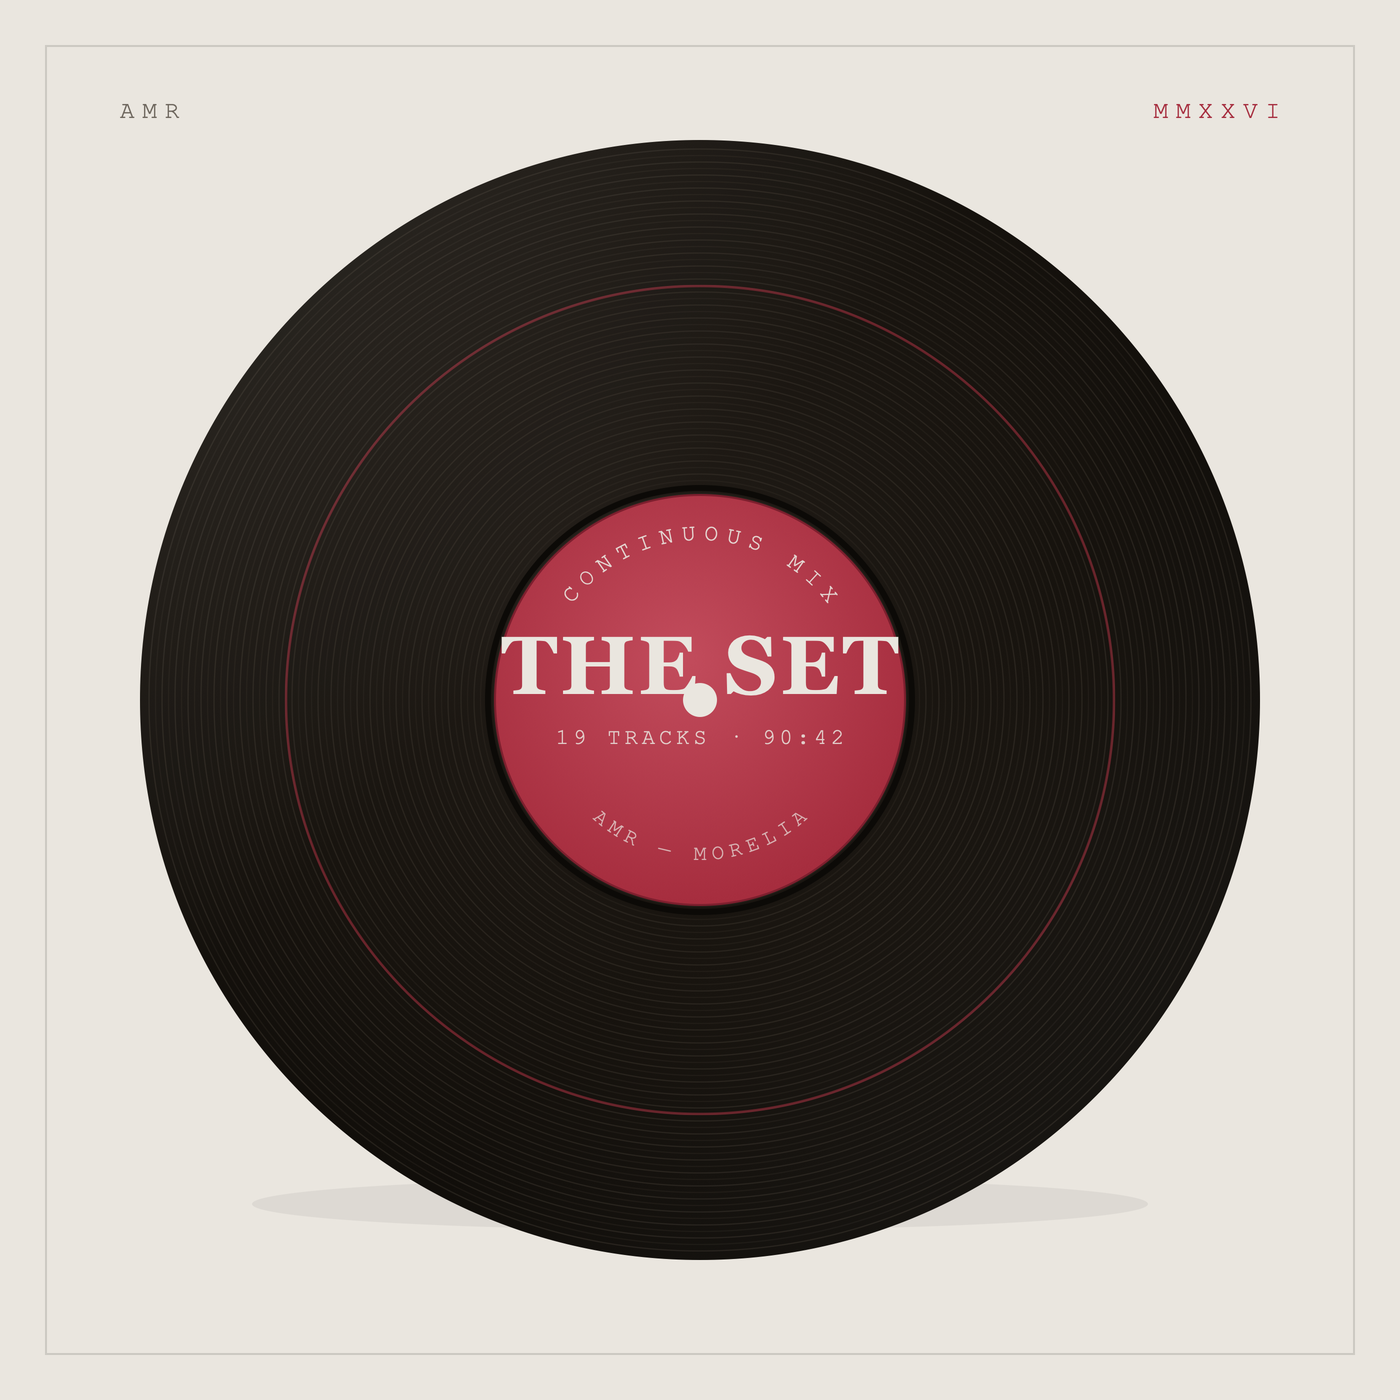
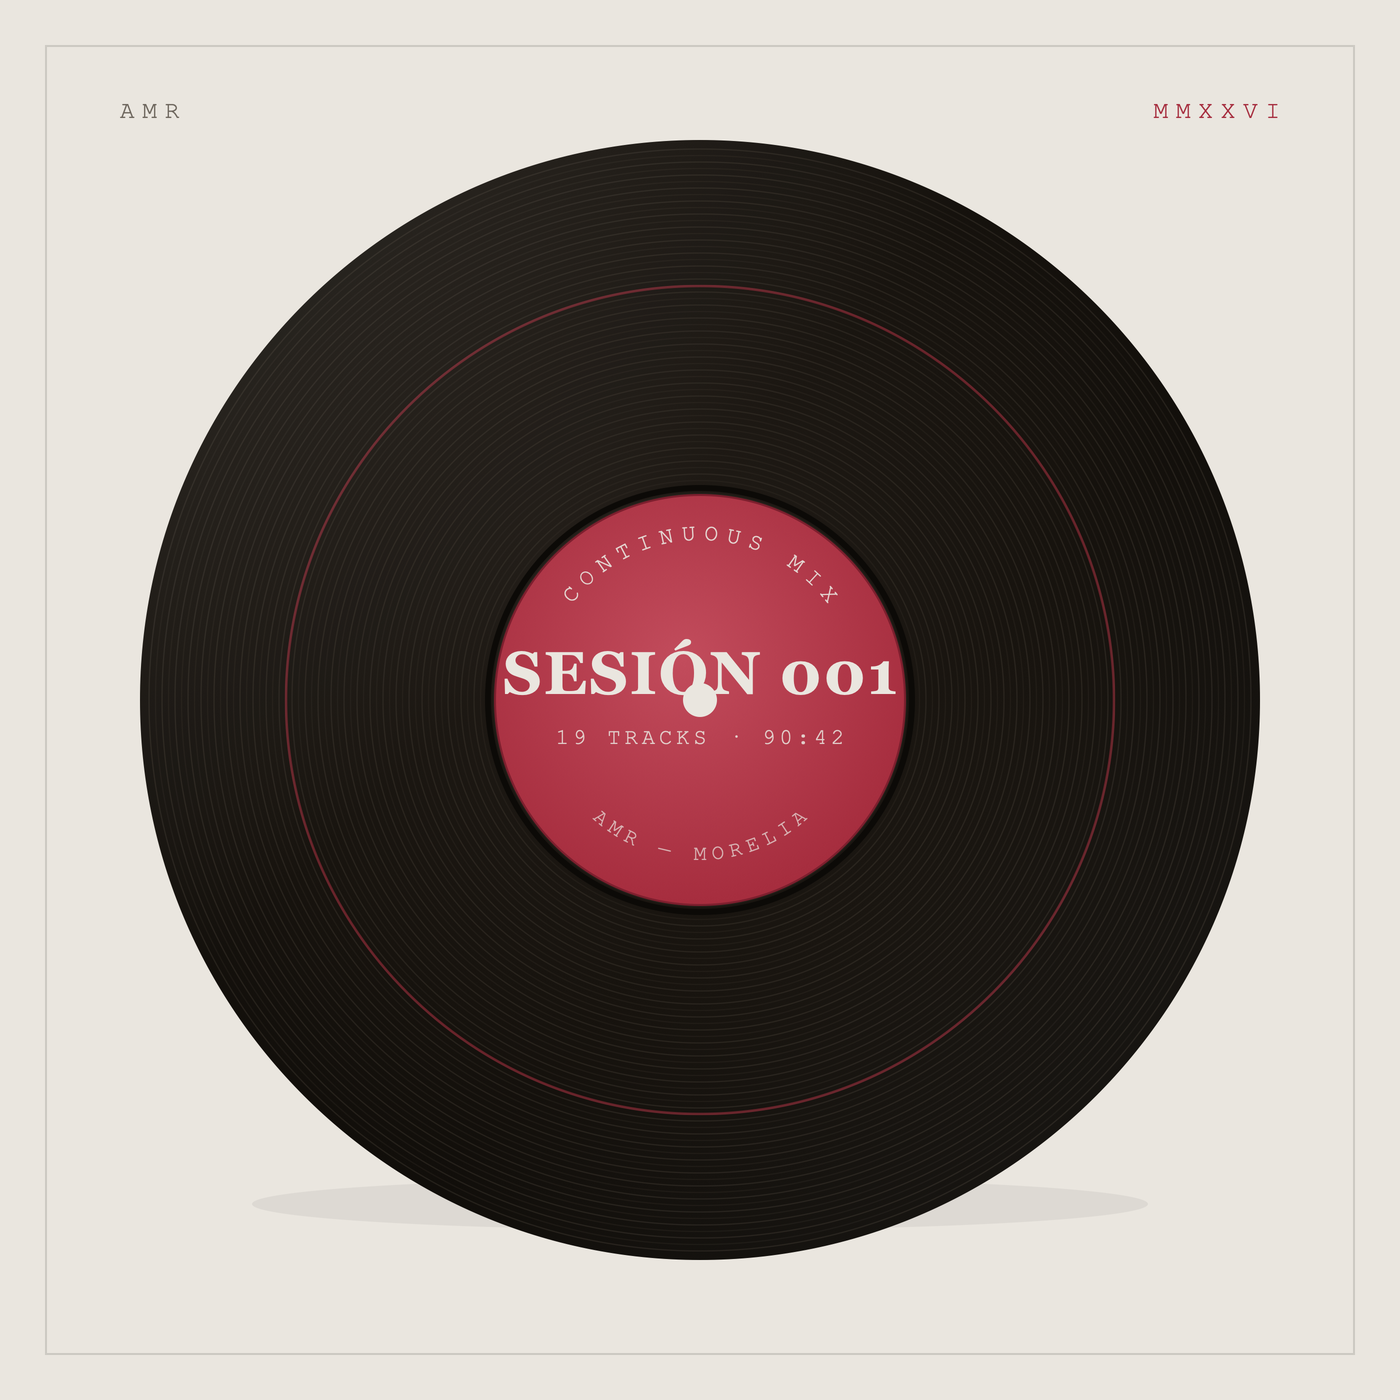
AMR — renombra el disco del set a SESIÓN 001 y sus pistas a A1–A19; MONUMENTS intacto

Changed region(s): [[0.3379, 0.43, 0.645, 0.5221]]

diff --git a/set.js b/set.js
@@ -1,1 +1,1 @@
-window.AMR_SET={"id": "amr-set-the-set", "title": "THE SET", "tracks": 19, "dur": 5442, "titles": ["Libali", "ftmo", "Hollywood", "shiny days", "wish you were here remake", "Aura", "Morning", "Sunset", "Octubre", "Rosablanca", "gnz11", "Francisco De Orellana", "trouble", "brady", "summit", "Nuevo", "Fast", "Pomona", "Nov24"], "file": "audio/amr-set-the-set.m4a", "art": "art/amr-set-the-set.png", "edition": 25, "peaks": [0.824, 0.809, 0.873, 0.848, 0.882, 0.914, 0.905, 0.874, 0.939, 0.928, 0.911, 0.961, 0.942, 0.928, 0.968, 0.884, 0.953, 0.932, 0.947, 0.982, 0.966, 0.945, 0.988, 0.996, 0.998, 0.995, 0.969, 0.97, 0.971, 0.963, 0.963, 0.995, 0.962, 0.924, 0.992, 0.958, 0.979, 0.942, 0.993, 0.906, 0.988, 0.96, 0.929, 0.95, 0.998, 0.997, 0.997, 0.984, 0.946, 0.82, 0.718, 0.705, 0.747, 0.754, 0.706, 0.746, 0.865, 0.898, 0.914, 0.93, 0.931, 0.957, 0.964, 0.958, 0.935, 0.969, 0.98, 0.963, 0.967, 0.968, 0.979, 0.969, 0.969, 0.964, 0.972, 0.97, 0.984, 0.965, 0.895, 0.847, 0.991, 0.987, 0.962, 0.957, 0.962, 0.972, 0.981, 0.96, 0.973, 0.96, 0.966, 0.669, 0.944, 0.99, 0.968, 0.965, 0.962, 0.97, 0.974, 0.98, 0.959, 0.738, 0.695, 0.686, 0.716, 0.853, 0.802, 0.87, 0.771, 0.868, 0.886, 0.786, 0.991, 0.984, 0.987, 0.996, 0.82, 0.997, 0.991, 0.991, 0.982, 0.982, 0.994, 0.994, 0.991, 0.993, 0.988, 0.995, 0.997, 0.981, 0.931, 0.916, 0.704, 0.637, 0.392, 0.117, 0.994, 0.994, 0.998, 0.996, 0.996, 0.998, 0.995, 0.995, 0.996, 1.0, 0.992, 0.99, 0.997, 0.997, 0.995, 0.993, 0.994, 0.997, 0.998, 0.997, 0.989, 0.996, 1.0, 0.997, 0.998, 0.995, 0.941, 0.88, 0.9, 0.834, 0.983, 0.997, 0.999, 1.0, 1.0, 0.996, 0.984, 0.998, 0.981, 0.975, 0.981, 0.989, 0.974, 0.998, 0.983, 0.998, 0.992, 0.992, 0.983, 0.972, 0.978, 0.973, 0.993, 0.973, 0.974, 0.996, 0.987, 0.994, 0.96, 0.995, 0.957, 0.986, 0.991, 0.996, 0.984, 0.9, 0.833, 0.835, 0.911, 0.897, 0.923, 0.955, 0.944, 0.96, 0.925, 0.957, 0.975, 0.93, 0.977, 0.945, 0.984, 0.957, 0.923, 0.952, 0.927, 0.973, 0.906, 0.939, 0.872, 0.93, 0.969, 0.931, 0.922, 0.927, 0.916, 0.911, 0.898, 0.921, 0.949, 0.916, 0.857, 0.946, 0.879, 0.953, 0.969, 0.908, 0.958, 0.943, 0.965, 0.955, 0.967, 0.965, 0.952, 0.985, 0.982, 0.978, 0.699, 0.664, 0.98, 0.986, 0.949, 0.945, 0.953, 0.943, 0.963, 0.94, 0.958, 0.915, 0.9, 0.711, 0.923, 0.949, 0.947, 0.976, 0.974, 0.903, 0.953, 0.911, 0.944, 0.965, 0.868, 0.913, 0.935, 0.957, 0.979, 0.802, 0.717, 0.758, 0.672, 0.756, 0.756, 0.687, 0.991, 0.998, 0.971, 0.973, 0.953, 0.983, 0.94, 0.938, 0.963, 0.941, 0.987, 0.968, 0.955, 0.932, 0.973, 0.931, 0.951, 0.982, 0.958, 0.979, 0.969, 0.994, 0.991, 0.946, 0.959, 0.971, 0.954, 0.981, 0.968, 0.969, 0.994, 0.94, 0.989, 0.955, 0.96, 0.994, 0.99, 0.976, 0.965, 0.971, 0.951, 0.983, 0.989, 0.983, 0.974, 0.96, 0.944, 0.961, 0.931, 0.884, 0.753, 0.996, 0.985, 0.991, 0.996, 0.995, 0.997, 0.988, 0.997, 0.986, 0.959, 0.975, 0.988, 0.998, 0.988, 0.992, 0.982, 0.987, 0.968, 0.993, 0.987, 0.994, 0.992, 0.997, 0.994, 0.98, 0.992, 0.987, 0.994, 0.956, 0.988, 0.991, 0.976, 0.995, 0.976, 0.993, 0.979, 0.985, 0.976, 0.993, 0.973, 0.965, 0.931, 0.981, 0.972, 0.973, 0.984, 0.982, 0.988, 0.953, 0.026, 0.992, 0.973, 0.919, 0.987, 0.968, 0.944, 0.963, 0.954, 0.897, 0.92, 0.901, 0.95, 0.928, 0.882, 0.94, 0.94, 0.955, 0.902, 0.963, 0.957, 0.947, 0.969, 0.963, 0.975, 0.939, 0.934, 0.946, 0.983, 0.94, 0.956, 0.96, 0.961, 0.939, 0.942, 0.941, 0.915, 0.877, 0.555, 0.944, 0.912, 0.914, 0.816, 0.76, 0.833, 0.751, 0.721, 0.968, 0.975, 0.984, 0.935, 0.671, 0.628, 0.635, 0.634, 0.625, 0.626, 0.628, 0.612, 0.72, 0.982, 0.99, 0.98, 0.979, 0.987, 0.927, 0.953, 0.989, 0.934, 0.963, 0.976, 0.895, 0.878, 0.92, 0.924, 0.881, 0.914, 0.887, 0.891, 0.962, 0.953, 0.947, 0.913, 0.906, 0.931, 0.893, 0.946, 0.965, 0.636, 0.587, 0.502, 0.996, 0.998, 0.997, 0.999, 0.996, 1.0, 0.999, 0.998, 0.999, 0.998, 0.998, 0.999, 0.999, 0.995, 0.998, 0.99, 0.999, 0.997, 0.995, 0.995, 0.993, 0.989, 0.997, 0.996, 0.992, 0.997, 0.998, 0.999, 0.925, 0.962, 0.854, 0.96, 0.967, 0.993, 0.986, 0.918, 0.985, 0.958, 0.981, 0.953, 0.972, 0.991, 0.977, 0.995, 0.992, 0.948, 0.99, 0.973, 0.999, 0.955, 0.89, 0.986, 1.0, 0.997, 0.993, 0.997, 0.977, 0.884, 0.998, 0.992, 0.997, 0.995, 0.996, 0.994, 0.995, 0.996, 0.997, 0.998, 0.996, 0.996, 0.992, 0.946, 0.983, 0.999, 0.996, 0.994, 0.996, 0.997, 0.993, 0.945, 0.879, 0.996, 0.995, 0.995, 0.943, 0.877, 0.855, 0.815, 0.689, 0.808, 0.891, 0.937, 0.926, 0.972, 0.993, 0.991, 0.994, 0.992, 0.982, 0.98, 0.975, 0.984, 0.968, 0.993, 0.981, 0.902, 0.957, 0.985, 0.98, 0.98, 0.984, 0.973, 0.838, 0.909, 0.873, 0.894, 0.899, 0.979, 0.984, 0.986, 0.989, 0.992, 0.994, 0.989, 0.994, 0.975, 0.723, 0.838, 0.942, 0.984, 0.998, 1.0, 0.998, 0.978, 0.999, 0.999, 0.997, 0.976, 0.901, 0.991, 0.972, 0.985, 0.987, 0.995, 0.997, 0.993, 0.993, 0.967, 0.998, 1.0, 0.991, 0.994, 0.924, 0.891, 0.938, 0.976, 0.974, 0.934, 0.943, 0.941, 0.96, 0.949, 0.937, 0.909, 0.911, 0.946, 0.916, 0.896, 0.918, 0.967, 0.86, 0.965, 0.964, 0.971, 0.914, 0.962, 0.962, 0.923, 0.95, 0.978, 0.934, 0.904, 0.951, 0.933, 0.921, 0.914, 0.948, 0.985, 0.803, 0.0, 0.946, 0.998, 0.956, 0.92, 0.858, 0.971, 0.982, 0.901, 0.959, 0.897, 0.87, 0.858, 0.878, 0.887, 0.917, 0.885, 0.917, 0.878, 0.884, 0.853, 0.916, 0.852, 0.874, 0.875, 0.909, 0.907, 0.948, 0.929, 0.947, 0.922, 0.846, 0.929, 0.904, 0.92, 0.888, 0.898, 0.938, 0.869, 0.937, 0.93, 0.85, 0.866, 0.903, 0.902, 0.92, 0.872, 0.889, 0.95, 0.91, 0.89, 0.91], "kicker": "CONTINUOUS MIX"};
+window.AMR_SET={"id": "amr-set-the-set", "title": "SESIÓN 001", "tracks": 19, "dur": 5442, "titles": ["A1", "A2", "A3", "A4", "A5", "A6", "A7", "A8", "A9", "A10", "A11", "A12", "A13", "A14", "A15", "A16", "A17", "A18", "A19"], "file": "audio/amr-set-the-set.m4a", "art": "art/amr-set-the-set.png", "edition": 25, "peaks": [0.824, 0.809, 0.873, 0.848, 0.882, 0.914, 0.905, 0.874, 0.939, 0.928, 0.911, 0.961, 0.942, 0.928, 0.968, 0.884, 0.953, 0.932, 0.947, 0.982, 0.966, 0.945, 0.988, 0.996, 0.998, 0.995, 0.969, 0.97, 0.971, 0.963, 0.963, 0.995, 0.962, 0.924, 0.992, 0.958, 0.979, 0.942, 0.993, 0.906, 0.988, 0.96, 0.929, 0.95, 0.998, 0.997, 0.997, 0.984, 0.946, 0.82, 0.718, 0.705, 0.747, 0.754, 0.706, 0.746, 0.865, 0.898, 0.914, 0.93, 0.931, 0.957, 0.964, 0.958, 0.935, 0.969, 0.98, 0.963, 0.967, 0.968, 0.979, 0.969, 0.969, 0.964, 0.972, 0.97, 0.984, 0.965, 0.895, 0.847, 0.991, 0.987, 0.962, 0.957, 0.962, 0.972, 0.981, 0.96, 0.973, 0.96, 0.966, 0.669, 0.944, 0.99, 0.968, 0.965, 0.962, 0.97, 0.974, 0.98, 0.959, 0.738, 0.695, 0.686, 0.716, 0.853, 0.802, 0.87, 0.771, 0.868, 0.886, 0.786, 0.991, 0.984, 0.987, 0.996, 0.82, 0.997, 0.991, 0.991, 0.982, 0.982, 0.994, 0.994, 0.991, 0.993, 0.988, 0.995, 0.997, 0.981, 0.931, 0.916, 0.704, 0.637, 0.392, 0.117, 0.994, 0.994, 0.998, 0.996, 0.996, 0.998, 0.995, 0.995, 0.996, 1.0, 0.992, 0.99, 0.997, 0.997, 0.995, 0.993, 0.994, 0.997, 0.998, 0.997, 0.989, 0.996, 1.0, 0.997, 0.998, 0.995, 0.941, 0.88, 0.9, 0.834, 0.983, 0.997, 0.999, 1.0, 1.0, 0.996, 0.984, 0.998, 0.981, 0.975, 0.981, 0.989, 0.974, 0.998, 0.983, 0.998, 0.992, 0.992, 0.983, 0.972, 0.978, 0.973, 0.993, 0.973, 0.974, 0.996, 0.987, 0.994, 0.96, 0.995, 0.957, 0.986, 0.991, 0.996, 0.984, 0.9, 0.833, 0.835, 0.911, 0.897, 0.923, 0.955, 0.944, 0.96, 0.925, 0.957, 0.975, 0.93, 0.977, 0.945, 0.984, 0.957, 0.923, 0.952, 0.927, 0.973, 0.906, 0.939, 0.872, 0.93, 0.969, 0.931, 0.922, 0.927, 0.916, 0.911, 0.898, 0.921, 0.949, 0.916, 0.857, 0.946, 0.879, 0.953, 0.969, 0.908, 0.958, 0.943, 0.965, 0.955, 0.967, 0.965, 0.952, 0.985, 0.982, 0.978, 0.699, 0.664, 0.98, 0.986, 0.949, 0.945, 0.953, 0.943, 0.963, 0.94, 0.958, 0.915, 0.9, 0.711, 0.923, 0.949, 0.947, 0.976, 0.974, 0.903, 0.953, 0.911, 0.944, 0.965, 0.868, 0.913, 0.935, 0.957, 0.979, 0.802, 0.717, 0.758, 0.672, 0.756, 0.756, 0.687, 0.991, 0.998, 0.971, 0.973, 0.953, 0.983, 0.94, 0.938, 0.963, 0.941, 0.987, 0.968, 0.955, 0.932, 0.973, 0.931, 0.951, 0.982, 0.958, 0.979, 0.969, 0.994, 0.991, 0.946, 0.959, 0.971, 0.954, 0.981, 0.968, 0.969, 0.994, 0.94, 0.989, 0.955, 0.96, 0.994, 0.99, 0.976, 0.965, 0.971, 0.951, 0.983, 0.989, 0.983, 0.974, 0.96, 0.944, 0.961, 0.931, 0.884, 0.753, 0.996, 0.985, 0.991, 0.996, 0.995, 0.997, 0.988, 0.997, 0.986, 0.959, 0.975, 0.988, 0.998, 0.988, 0.992, 0.982, 0.987, 0.968, 0.993, 0.987, 0.994, 0.992, 0.997, 0.994, 0.98, 0.992, 0.987, 0.994, 0.956, 0.988, 0.991, 0.976, 0.995, 0.976, 0.993, 0.979, 0.985, 0.976, 0.993, 0.973, 0.965, 0.931, 0.981, 0.972, 0.973, 0.984, 0.982, 0.988, 0.953, 0.026, 0.992, 0.973, 0.919, 0.987, 0.968, 0.944, 0.963, 0.954, 0.897, 0.92, 0.901, 0.95, 0.928, 0.882, 0.94, 0.94, 0.955, 0.902, 0.963, 0.957, 0.947, 0.969, 0.963, 0.975, 0.939, 0.934, 0.946, 0.983, 0.94, 0.956, 0.96, 0.961, 0.939, 0.942, 0.941, 0.915, 0.877, 0.555, 0.944, 0.912, 0.914, 0.816, 0.76, 0.833, 0.751, 0.721, 0.968, 0.975, 0.984, 0.935, 0.671, 0.628, 0.635, 0.634, 0.625, 0.626, 0.628, 0.612, 0.72, 0.982, 0.99, 0.98, 0.979, 0.987, 0.927, 0.953, 0.989, 0.934, 0.963, 0.976, 0.895, 0.878, 0.92, 0.924, 0.881, 0.914, 0.887, 0.891, 0.962, 0.953, 0.947, 0.913, 0.906, 0.931, 0.893, 0.946, 0.965, 0.636, 0.587, 0.502, 0.996, 0.998, 0.997, 0.999, 0.996, 1.0, 0.999, 0.998, 0.999, 0.998, 0.998, 0.999, 0.999, 0.995, 0.998, 0.99, 0.999, 0.997, 0.995, 0.995, 0.993, 0.989, 0.997, 0.996, 0.992, 0.997, 0.998, 0.999, 0.925, 0.962, 0.854, 0.96, 0.967, 0.993, 0.986, 0.918, 0.985, 0.958, 0.981, 0.953, 0.972, 0.991, 0.977, 0.995, 0.992, 0.948, 0.99, 0.973, 0.999, 0.955, 0.89, 0.986, 1.0, 0.997, 0.993, 0.997, 0.977, 0.884, 0.998, 0.992, 0.997, 0.995, 0.996, 0.994, 0.995, 0.996, 0.997, 0.998, 0.996, 0.996, 0.992, 0.946, 0.983, 0.999, 0.996, 0.994, 0.996, 0.997, 0.993, 0.945, 0.879, 0.996, 0.995, 0.995, 0.943, 0.877, 0.855, 0.815, 0.689, 0.808, 0.891, 0.937, 0.926, 0.972, 0.993, 0.991, 0.994, 0.992, 0.982, 0.98, 0.975, 0.984, 0.968, 0.993, 0.981, 0.902, 0.957, 0.985, 0.98, 0.98, 0.984, 0.973, 0.838, 0.909, 0.873, 0.894, 0.899, 0.979, 0.984, 0.986, 0.989, 0.992, 0.994, 0.989, 0.994, 0.975, 0.723, 0.838, 0.942, 0.984, 0.998, 1.0, 0.998, 0.978, 0.999, 0.999, 0.997, 0.976, 0.901, 0.991, 0.972, 0.985, 0.987, 0.995, 0.997, 0.993, 0.993, 0.967, 0.998, 1.0, 0.991, 0.994, 0.924, 0.891, 0.938, 0.976, 0.974, 0.934, 0.943, 0.941, 0.96, 0.949, 0.937, 0.909, 0.911, 0.946, 0.916, 0.896, 0.918, 0.967, 0.86, 0.965, 0.964, 0.971, 0.914, 0.962, 0.962, 0.923, 0.95, 0.978, 0.934, 0.904, 0.951, 0.933, 0.921, 0.914, 0.948, 0.985, 0.803, 0.0, 0.946, 0.998, 0.956, 0.92, 0.858, 0.971, 0.982, 0.901, 0.959, 0.897, 0.87, 0.858, 0.878, 0.887, 0.917, 0.885, 0.917, 0.878, 0.884, 0.853, 0.916, 0.852, 0.874, 0.875, 0.909, 0.907, 0.948, 0.929, 0.947, 0.922, 0.846, 0.929, 0.904, 0.92, 0.888, 0.898, 0.938, 0.869, 0.937, 0.93, 0.85, 0.866, 0.903, 0.902, 0.92, 0.872, 0.889, 0.95, 0.91, 0.89, 0.91], "kicker": "CONTINUOUS MIX"};